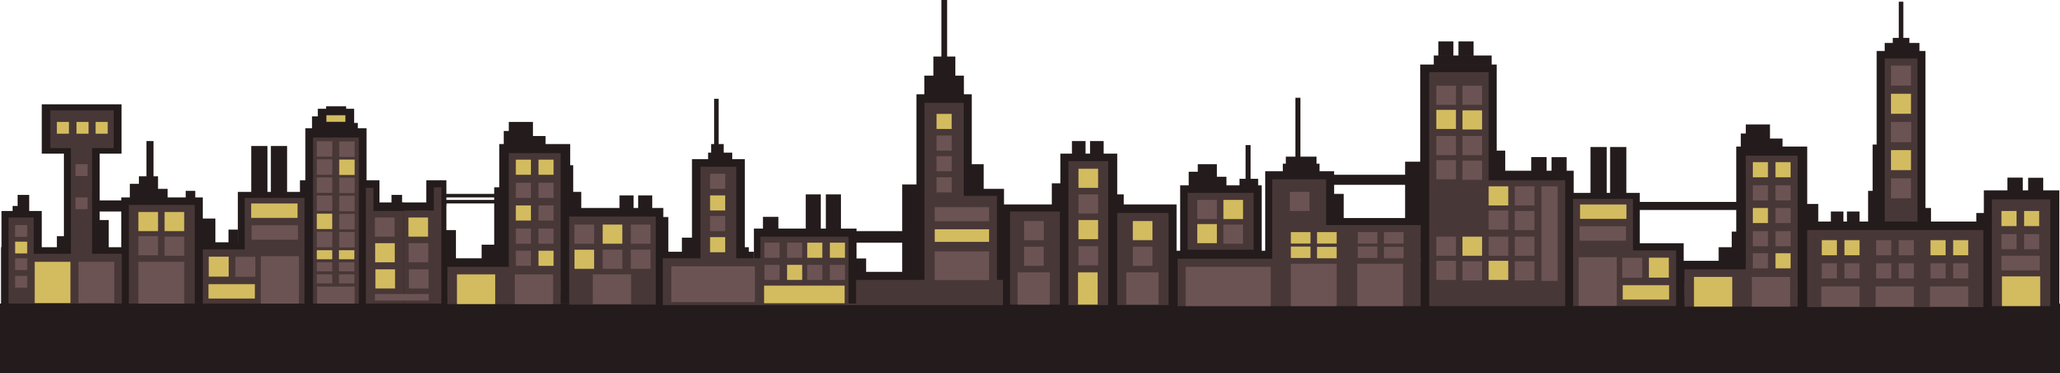
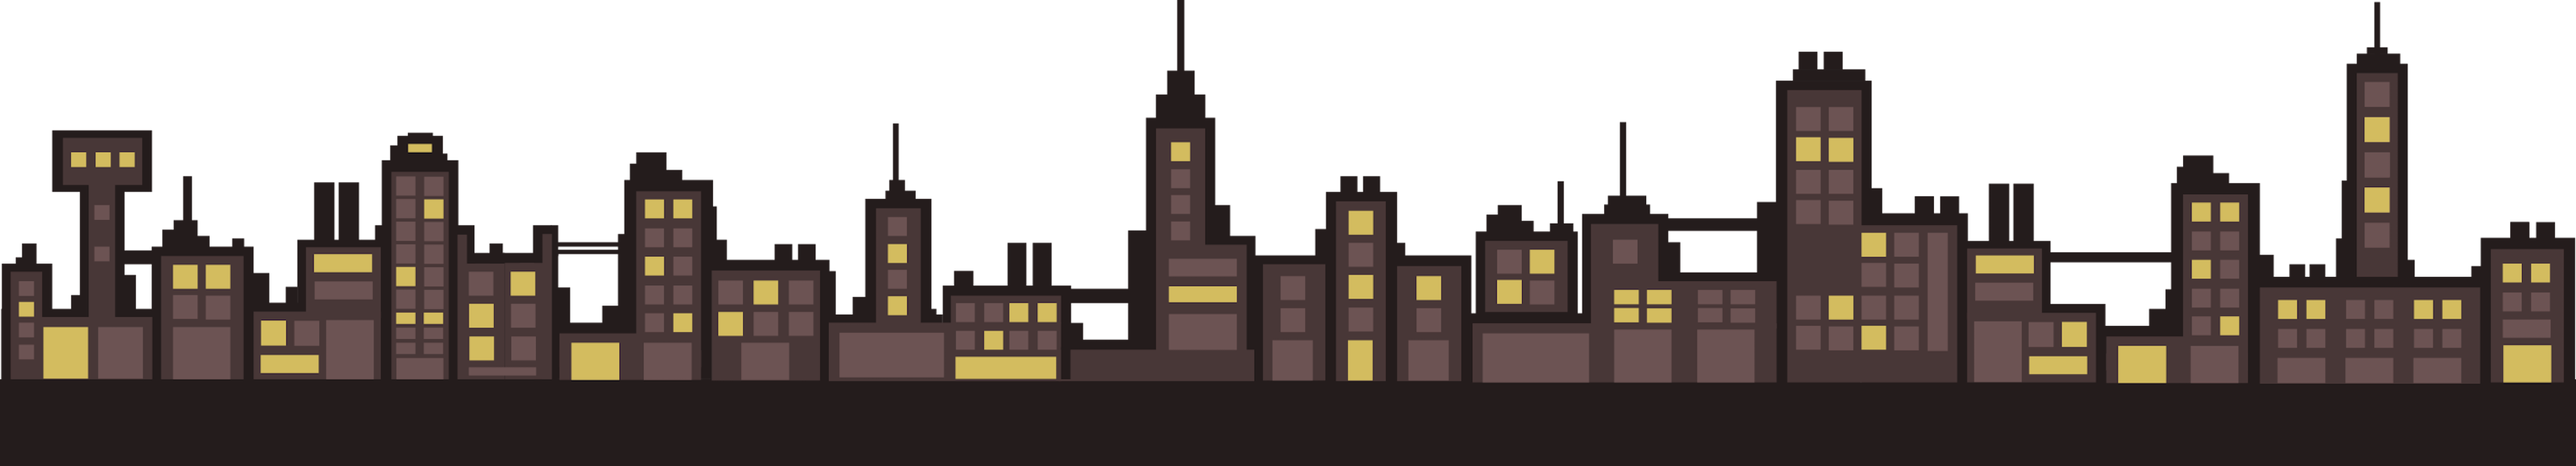
more imposing city

Changed region(s): [[0.6507, 0.5714, 0.6816, 0.6015]]

diff --git a/scripts/runner.js b/scripts/runner.js
@@ -176,10 +176,11 @@ Q.GameObject.extend("BoxThrower",{
 Q.Repeater.extend("BackgroundWall",{
   init: function() {
     this._super({
-      asset: "city.png",
+      asset: "city-large.png",
       repeatY: false,
-      speedX: 0.5,
-      y: 75
+      speedX: 0.75,
+      scale: 1,
+      y: 20
     });
   },
   update: function(dt) {
@@ -344,7 +345,7 @@ var stageGame = function() {
     Q.stageScene("hud", 3, Q('Player').first().p);
 };
   
-Q.load("SHARKWHIRL.png, JUMP.png, DUCK.png, SHARKWHIRL.mp3, blue.png, player.json, player.png, shark.png, shark.json, suit.png, suit.json, city.png, street.png", function() {
+Q.load("SHARKWHIRL.png, JUMP.png, DUCK.png, SHARKWHIRL.mp3, blue.png, player.json, player.png, shark.png, shark.json, suit.png, suit.json, city-large.png, street.png", function() {
     Q.compileSheets("player.png","player.json");
     Q.compileSheets("suit.png", "suit.json");
     Q.compileSheets("shark.png","shark.json");
